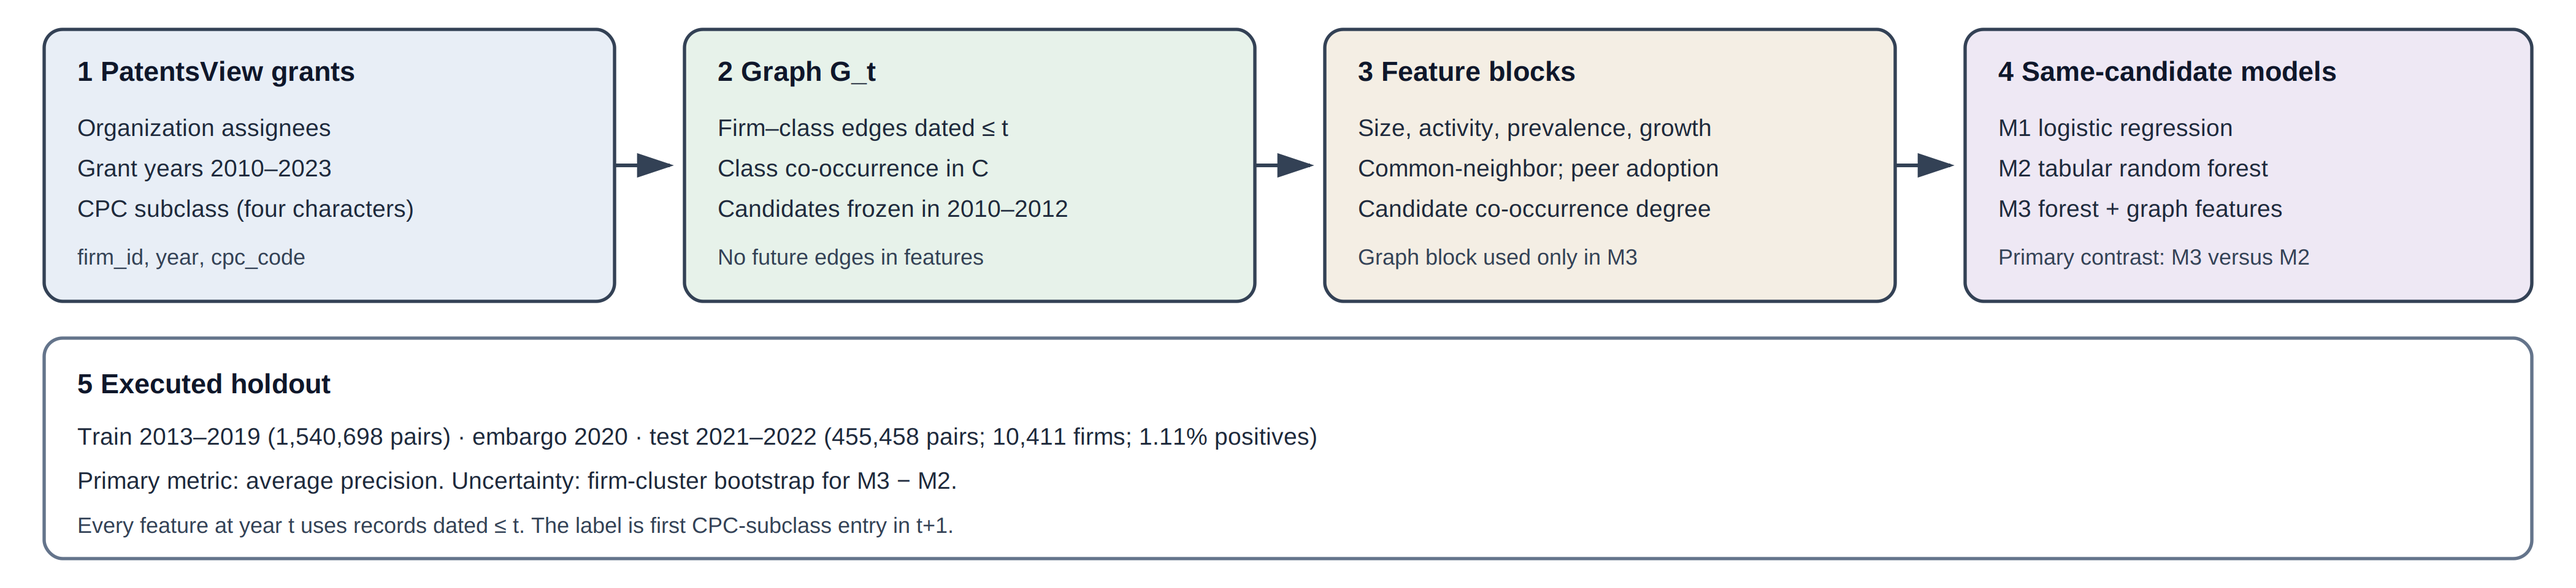
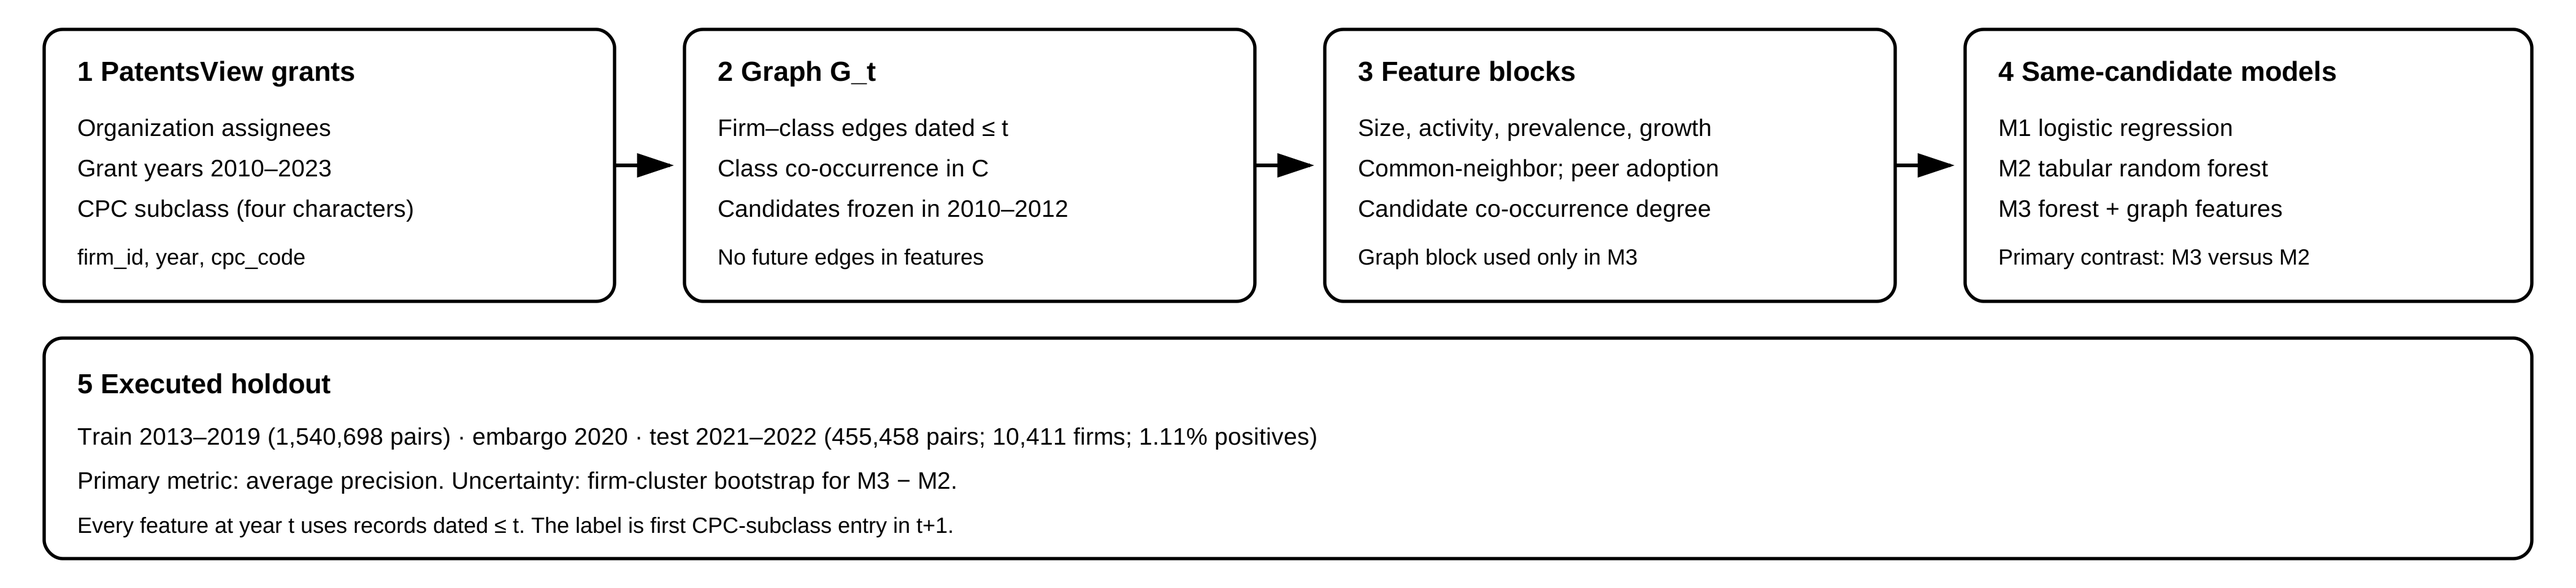
Render manuscript flowcharts in black and white
Replace colored fills in Figures 1 and 2 with black line art on a white
ground, keep tables unshaded, and match the matplotlib fallback.

diff --git a/src/experiment.py b/src/experiment.py
@@ -234,13 +234,13 @@ def write_protocol_figures(figdir: Path):
         "ps.fonttype": 42,
     })
 
-    def box(ax, x, y, w, h, title, lines, facecolor, edge="#1e3a5f"):
+    def box(ax, x, y, w, h, title, lines, facecolor="#ffffff", edge="#000000", linestyle="-"):
         patch = FancyBboxPatch((x, y), w, h, boxstyle="round,pad=0.02,rounding_size=0.08",
-                               facecolor=facecolor, edgecolor=edge, linewidth=1.3)
+                               facecolor=facecolor, edgecolor=edge, linewidth=1.3, linestyle=linestyle)
         ax.add_patch(patch)
-        ax.text(x + 0.06, y + h - 0.12, title, fontsize=10.5, fontweight="bold", color="#0f172a", va="top")
+        ax.text(x + 0.06, y + h - 0.12, title, fontsize=10.5, fontweight="bold", color="#000000", va="top")
         for i, line in enumerate(lines):
-            ax.text(x + 0.06, y + h - 0.38 - 0.22 * i, line, fontsize=8.8, color="#1e293b", va="top")
+            ax.text(x + 0.06, y + h - 0.38 - 0.22 * i, line, fontsize=8.8, color="#000000", va="top")
 
     fig, ax = plt.subplots(figsize=(11.2, 2.7))
     ax.set_xlim(0, 12)
@@ -248,29 +248,29 @@ def write_protocol_figures(figdir: Path):
     ax.axis("off")
     box(ax, 0.15, 2.15, 2.7, 2.05, "1  PatentsView grants",
         ["Organization assignees", "Grant years 2010–2023", "CPC subclass (four characters)",
-         "firm_id, year, cpc_code"], "#e8eef6")
+         "firm_id, year, cpc_code"])
     box(ax, 3.15, 2.15, 2.7, 2.05, "2  Graph G_t",
         ["Firm–class edges dated ≤ t", "Class co-occurrence in C", "Candidates frozen in 2010–2012",
-         "No future edges in features"], "#e7f2ea")
+         "No future edges in features"])
     box(ax, 6.15, 2.15, 2.7, 2.05, "3  Feature blocks",
         ["Size, activity, prevalence, growth", "Common-neighbor; peer adoption",
-         "Candidate co-occurrence degree", "Graph block used only in M3"], "#f4eee4")
+         "Candidate co-occurrence degree", "Graph block used only in M3"])
     box(ax, 9.15, 2.15, 2.7, 2.05, "4  Same-candidate models",
         ["M1 logistic regression", "M2 tabular random forest", "M3 forest + graph features",
-         "Primary contrast: M3 versus M2"], "#eee8f4")
+         "Primary contrast: M3 versus M2"])
     for x0, x1 in ((2.85, 3.15), (5.85, 6.15), (8.85, 9.15)):
         ax.add_patch(FancyArrowPatch((x0, 3.15), (x1, 3.15), arrowstyle="-|>", mutation_scale=10,
-                                     color="#334155", linewidth=1.4))
+                                     color="#000000", linewidth=1.4))
     eval_box = FancyBboxPatch((0.15, 0.12), 11.7, 1.85, boxstyle="round,pad=0.02,rounding_size=0.08",
-                              facecolor="#ffffff", edgecolor="#64748b", linewidth=1.3)
+                              facecolor="#ffffff", edgecolor="#000000", linewidth=1.3)
     ax.add_patch(eval_box)
-    ax.text(0.3, 1.7, "5  Executed holdout", fontsize=10.5, fontweight="bold", color="#0f172a")
+    ax.text(0.3, 1.7, "5  Executed holdout", fontsize=10.5, fontweight="bold", color="#000000")
     ax.text(0.3, 1.28, "Train 2013–2019 (1,540,698 pairs) · embargo 2020 · test 2021–2022 (455,458 pairs; 10,411 firms; 1.11% positives)",
-            fontsize=8.6, color="#1e293b")
+            fontsize=8.6, color="#000000")
     ax.text(0.3, 0.88, "Primary metric: average precision. Uncertainty: firm-cluster bootstrap for M3 − M2.",
-            fontsize=8.6, color="#1e293b")
+            fontsize=8.6, color="#000000")
     ax.text(0.3, 0.48, "Every feature at year t uses records dated ≤ t. The label is first CPC-subclass entry in t+1.",
-            fontsize=8.2, color="#334155")
+            fontsize=8.2, color="#000000")
     fig.tight_layout()
     fig.savefig(figdir / "figure1_architecture.pdf", bbox_inches="tight")
     fig.savefig(figdir / "figure1_architecture.png", dpi=300, bbox_inches="tight")
@@ -281,23 +281,23 @@ def write_protocol_figures(figdir: Path):
     ax.set_ylim(0, 3.2)
     ax.axis("off")
     ax.annotate("", xy=(11.7, 2.85), xytext=(0.25, 2.85),
-                arrowprops=dict(arrowstyle="-|>", color="#334155", lw=1.6))
+                arrowprops=dict(arrowstyle="-|>", color="#000000", lw=1.6))
     periods = [
-        (0.25, 2.15, "#e8eef6", "#1e3a5f", "2010–2012", "Fix 30 CPC candidates", "Burn-in only"),
-        (2.55, 3.55, "#d9e4f2", "#1e3a5f", "2013–2019", "1,540,698 training pairs", "2019 used for thresholds"),
-        (6.25, 1.4, "#f4eee4", "#7a5b20", "2020", "Embargo", "Unused year"),
-        (7.8, 3.95, "#dceee3", "#215c3a", "2021–2022", "455,458 pairs; 10,411 firms", "Labels unused in fitting"),
+        (0.25, 2.15, "-", "2010–2012", "Fix 30 CPC candidates", "Burn-in only"),
+        (2.55, 3.55, "-", "2013–2019", "1,540,698 training pairs", "2019 used for thresholds"),
+        (6.25, 1.4, "--", "2020", "Embargo", "Unused year"),
+        (7.8, 3.95, "-", "2021–2022", "455,458 pairs; 10,411 firms", "Labels unused in fitting"),
     ]
-    for x, w, face, edge, title, note, sub in periods:
+    for x, w, linestyle, title, note, sub in periods:
         patch = FancyBboxPatch((x, 1.15), w, 1.45, boxstyle="round,pad=0.02,rounding_size=0.06",
-                               facecolor=face, edgecolor=edge, linewidth=1.3)
+                               facecolor="#ffffff", edgecolor="#000000", linewidth=1.3, linestyle=linestyle)
         ax.add_patch(patch)
-        ax.text(x + w / 2, 2.25, title, ha="center", fontsize=10, fontweight="bold", color="#0f172a")
-        ax.text(x + w / 2, 1.85, note, ha="center", fontsize=8.4, color="#1e293b")
-        ax.text(x + w / 2, 1.5, sub, ha="center", fontsize=8.0, color="#334155")
+        ax.text(x + w / 2, 2.25, title, ha="center", fontsize=10, fontweight="bold", color="#000000")
+        ax.text(x + w / 2, 1.85, note, ha="center", fontsize=8.4, color="#000000")
+        ax.text(x + w / 2, 1.5, sub, ha="center", fontsize=8.0, color="#000000")
     ax.text(0.25, 0.45,
             "M1 and M2 use activity features only. M3 adds common-neighbor, peer-adoption, and degree features. A second chronological cutoff was not run.",
-            fontsize=8.2, color="#334155")
+            fontsize=8.2, color="#000000")
     fig.tight_layout()
     fig.savefig(figdir / "figure2_evaluation.pdf", bbox_inches="tight")
     fig.savefig(figdir / "figure2_evaluation.png", dpi=300, bbox_inches="tight")

diff --git a/paper.md b/paper.md
@@ -63,7 +63,7 @@ Results come from the released experiment code on the normalized PatentsView fil
 
 ![Figure 1](figures/figure1_architecture.svg)
 
-**Fig. 2.** Executed chronological split. Burn-in 2010–2012 freezes 30 CPC candidates; training uses 2013–2019; 2020 is embargoed; 2021–2022 is the test window. Thresholds are selected on 2019.
+**Fig. 2.** Executed chronological split. Burn-in 2010–2012 freezes 30 CPC candidates; training uses 2013–2019; the dashed box is the unused 2020 embargo year; 2021–2022 is the test window. Thresholds are selected on 2019.
 
 ![Figure 2](figures/figure2_evaluation.svg)
 
